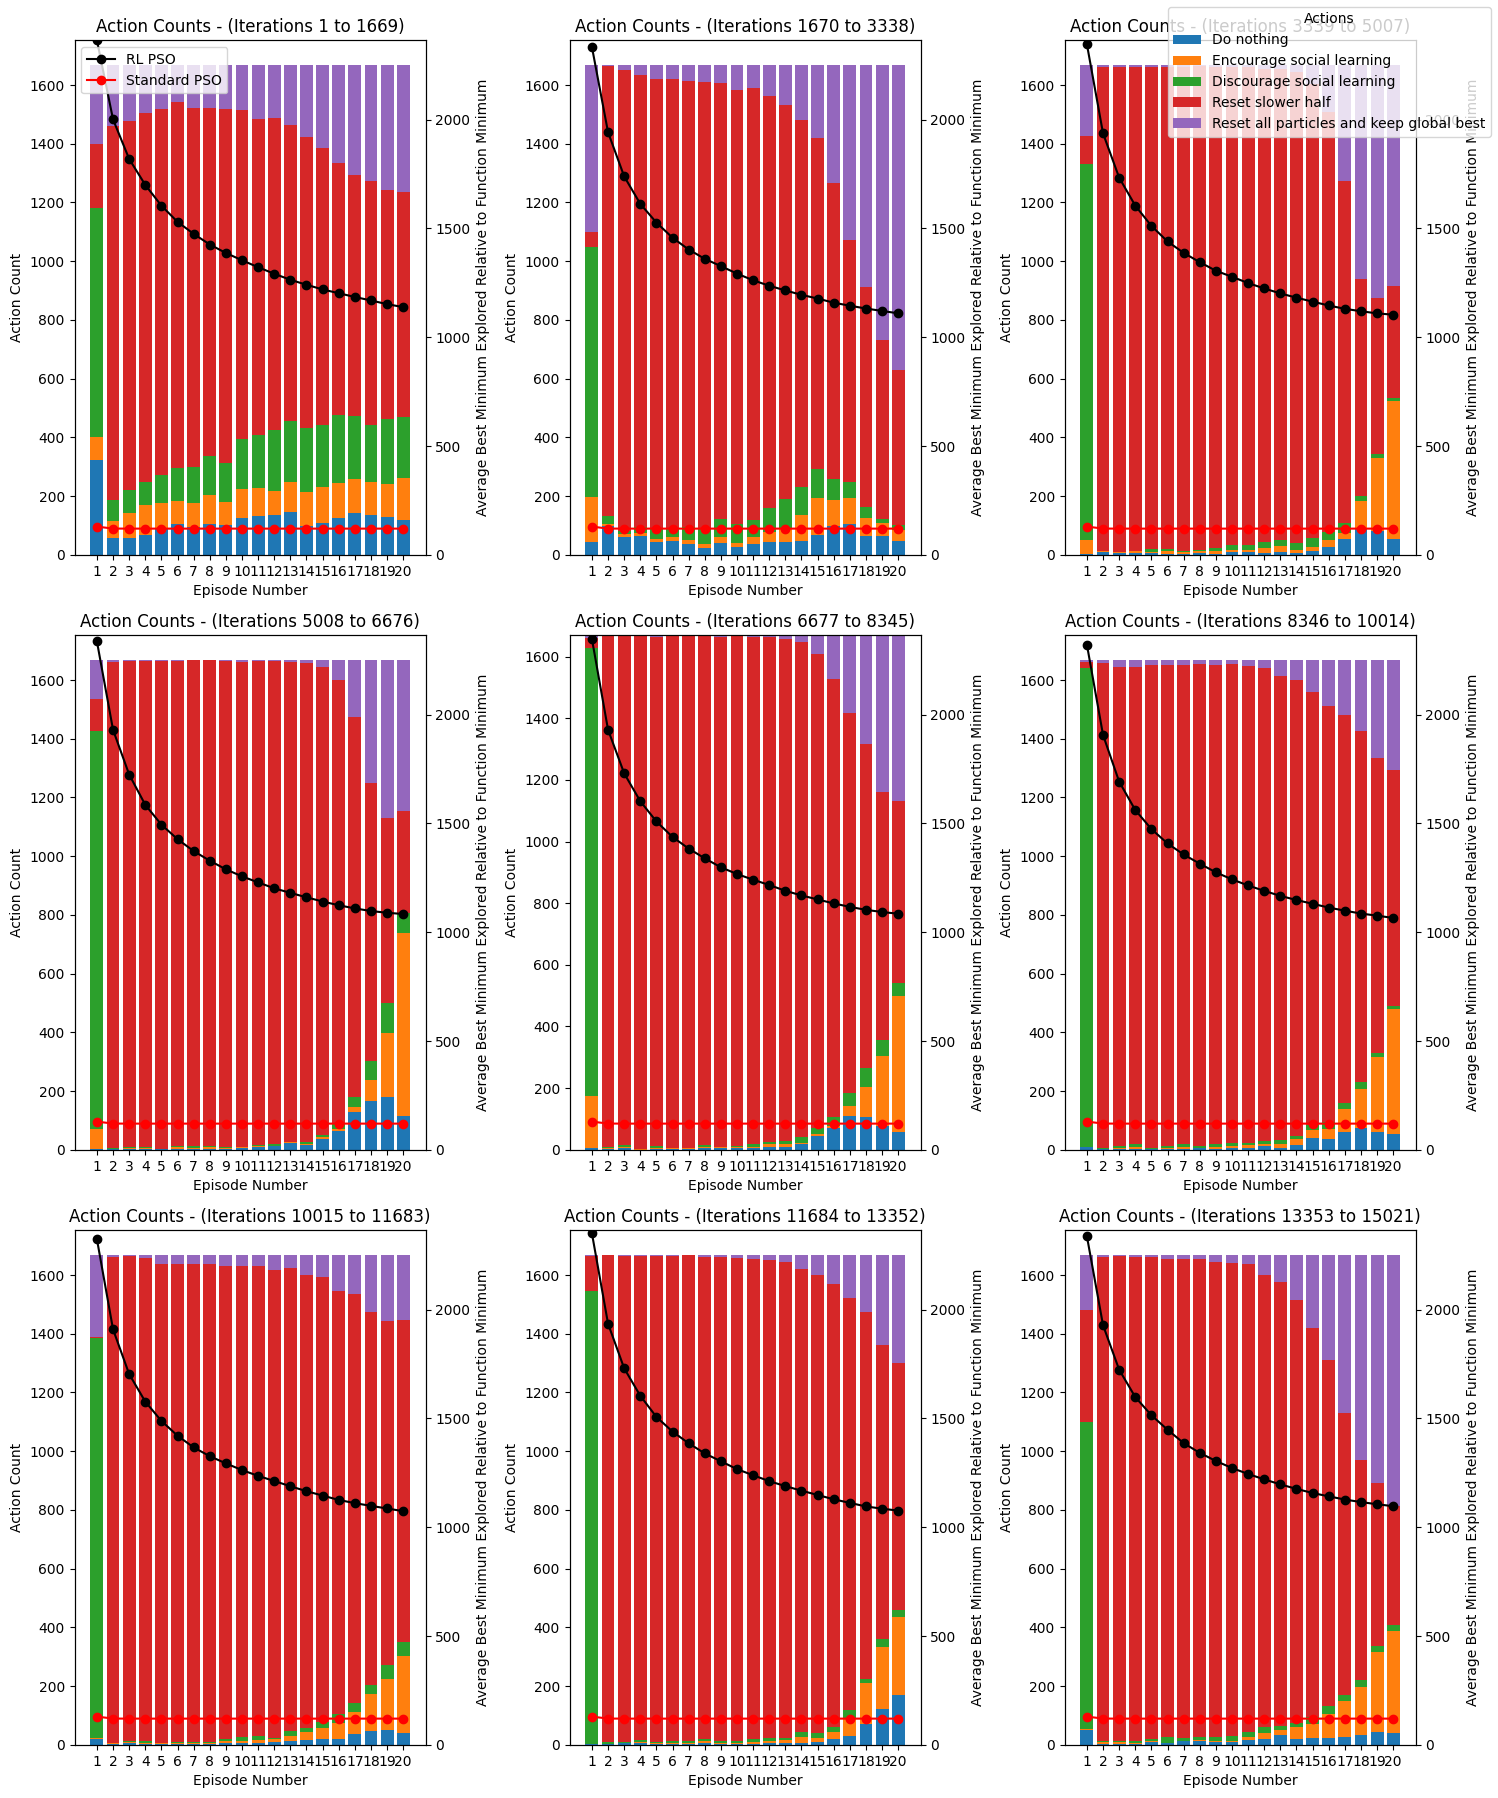
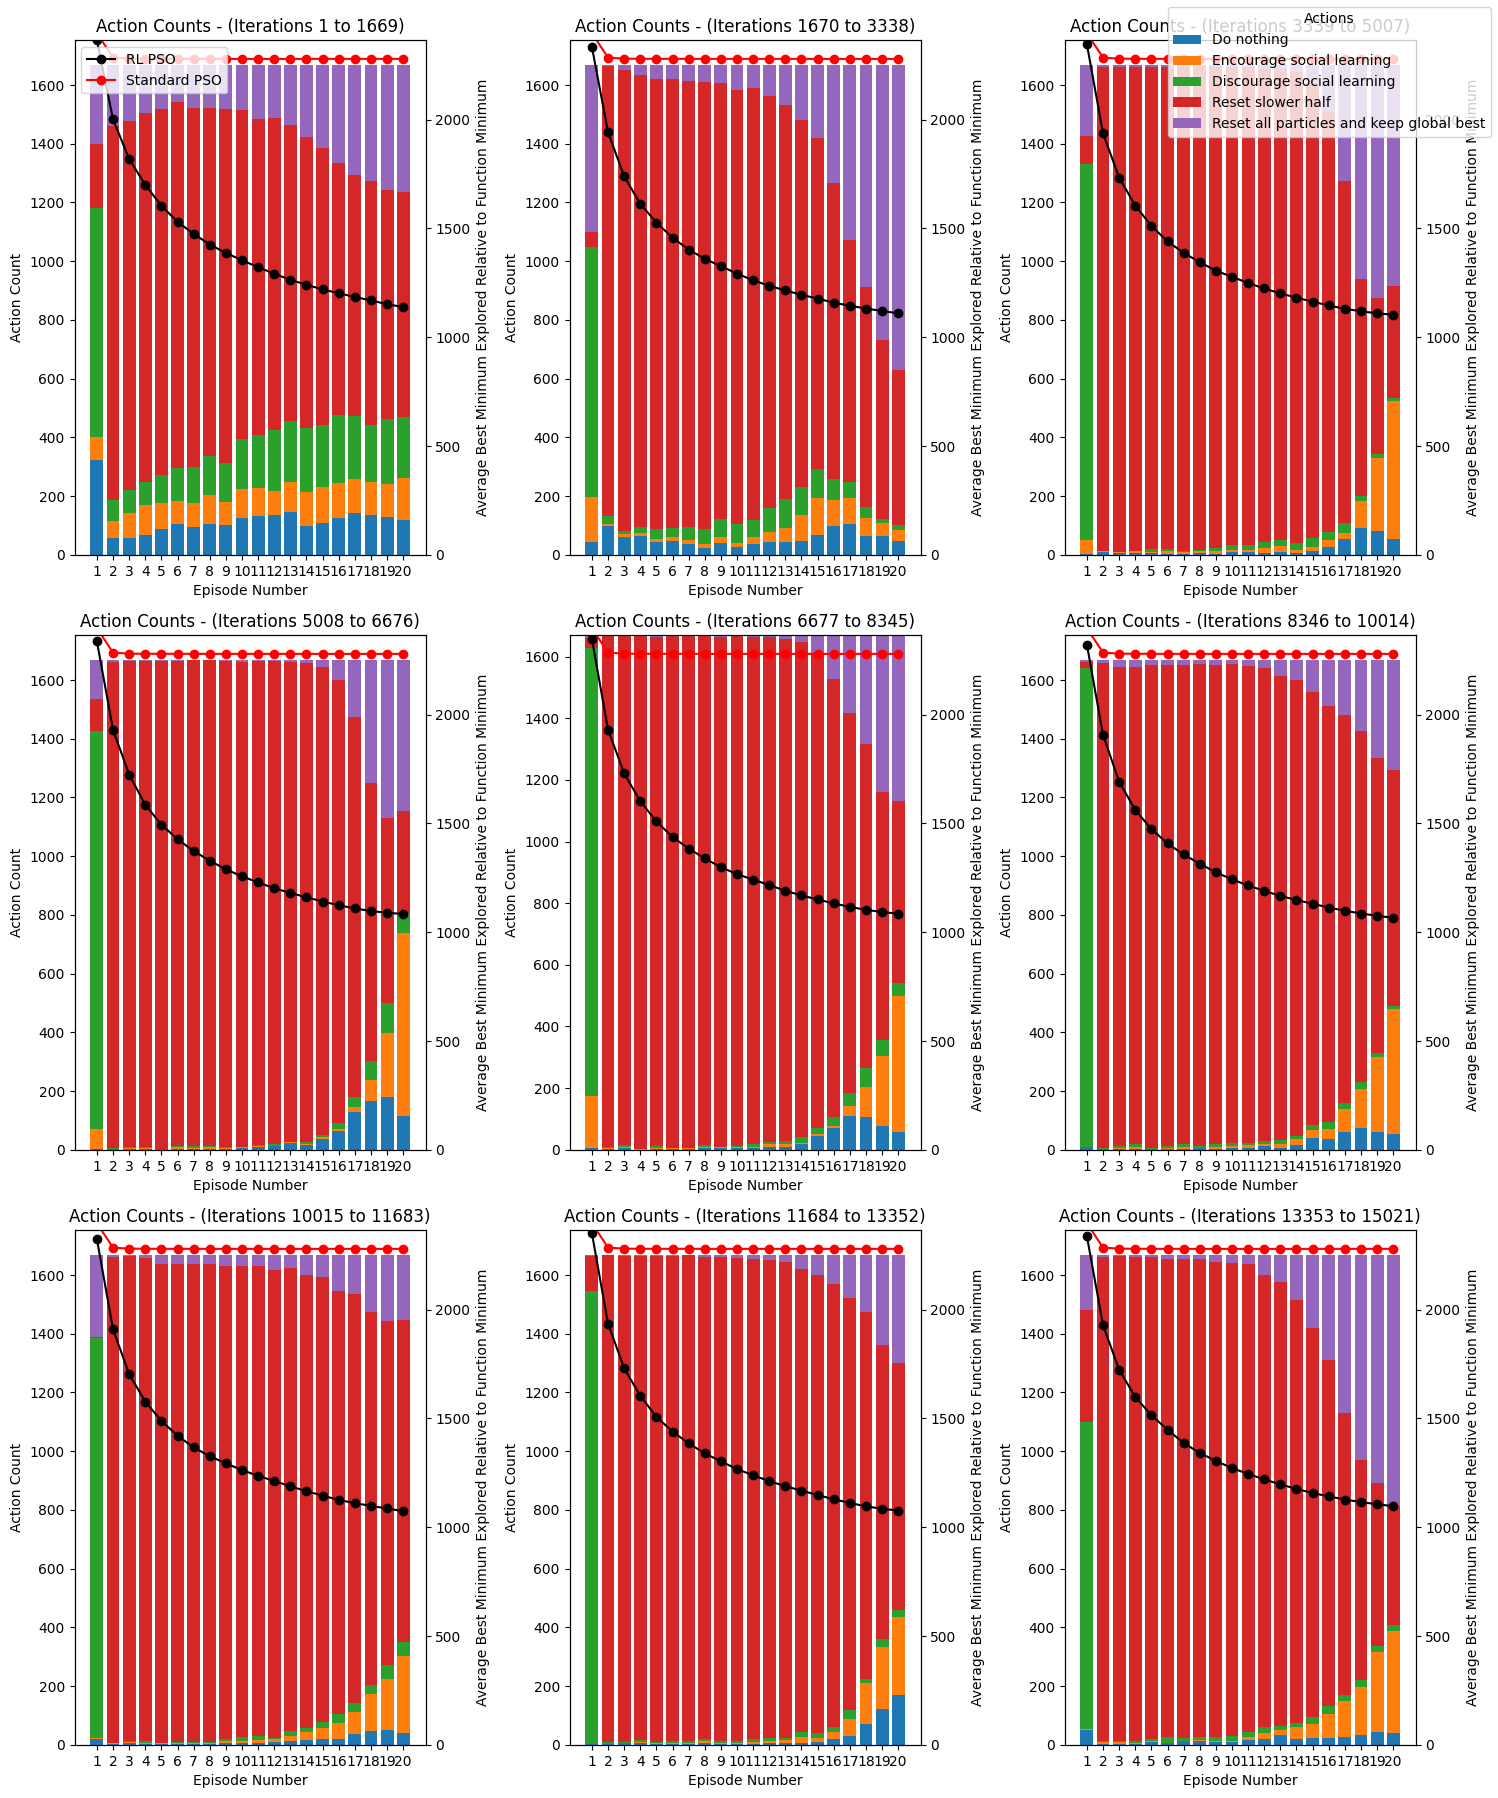
added Jun 17 run

diff --git a/main.py b/main.py
@@ -28,7 +28,7 @@ if __name__ == "__main__":
     parser = argparse.ArgumentParser(description="Run DQN Agent on PSO Algorithm")
     parser.add_argument("--network_type", type=str, default="DRQN",help="Type of the network to build, can either be 'DQN' or 'DRQN'")
     parser.add_argument("--algorithm", type=str, default="PSO", help="The metaheuristic algorithm to use. Currently only pso is supported")
-    parser.add_argument("--func_num", type=int, default=12, help="The function number to optimize. Good functions to evaluate are 6,10,11,14,19")
+    parser.add_argument("--func_num", type=int, default=14, help="The function number to optimize. Good functions to evaluate are 6,10,11,14,19")
     parser.add_argument("--dim", type=int, default=30,help="The number of dimensions in the search space. Default is 30.")
     parser.add_argument("--swarm_size", type=int, default=50, help="The number of particles in the swarm. Default is 50.")
     parser.add_argument("--num_actions", type=int, default=5, help="The number of actions to choose from in the action space. Default is 5.")
